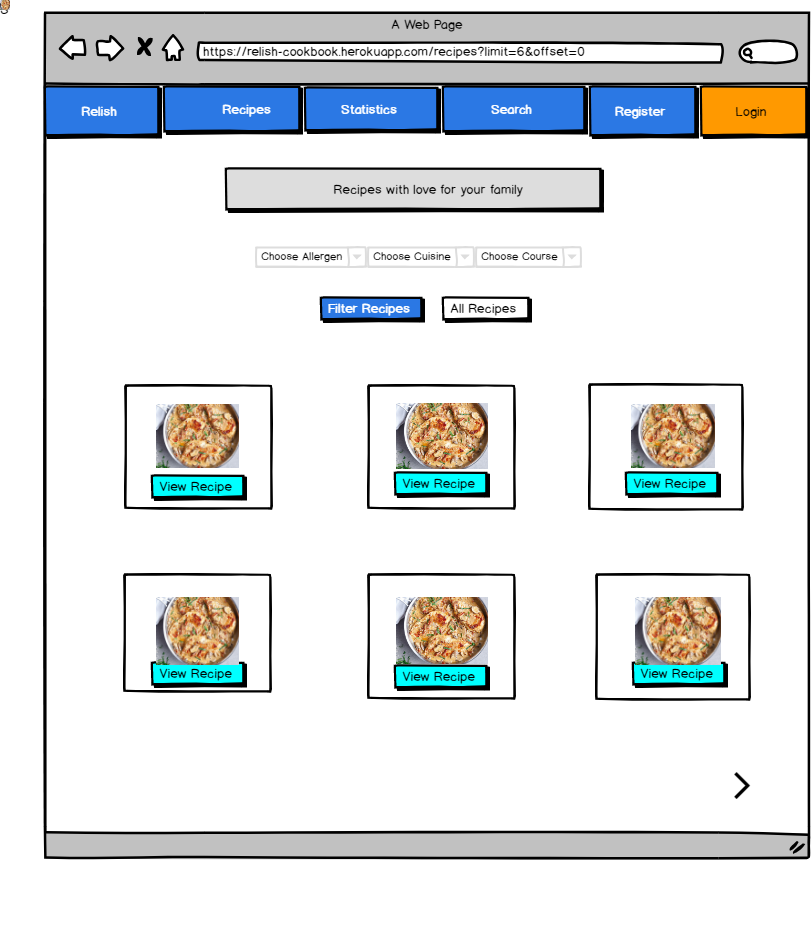
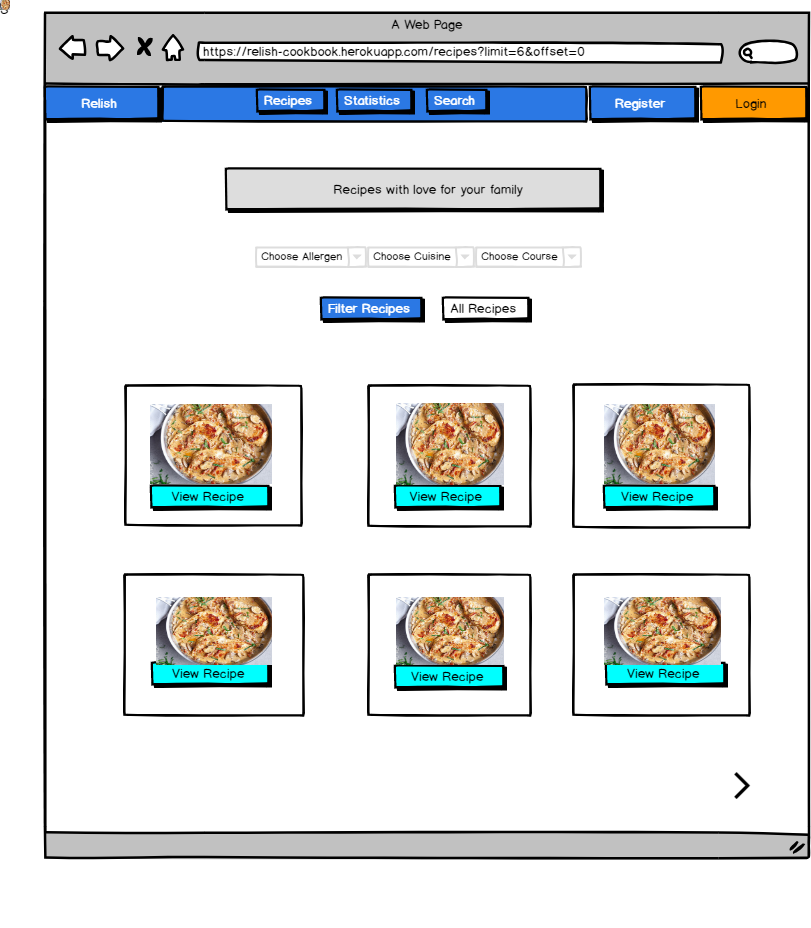
Added wireframe for tablet

diff --git a/Readme.md b/Readme.md
@@ -20,12 +20,14 @@ The website can be viewed [here](https://relish-cookbook.herokuapp.com/recipes?l
 
 ### Wireframe
 
-Note: the wireframes are not entirely accurate, they only give a brief insight on how the website will look on mobile/tablet/desktop.
+Note: the wireframes are not entirely accurate, they only give a rough estimate on how the website will look on mobile/tablet/desktop.
 
 #### Wireframe for desktop
 <img src="/static/wireframe/relish-cookbook-desktop.png" alt="Relish-CookBook" border="0">
+
 #### Wireframe for tablet
-<img src="/static/wireframe/relish-cookbook-desktop.png" alt="Relish-CookBook" border="0">
+<img src="/static/wireframe/relish-cookbook-tablet.png" alt="Relish-CookBook" border="0">
+
 #### Wireframe for mobile
 <img src="/static/wireframe/relish-cookbook-mobile.png" alt="Relish-CookBook" border="0">
 
